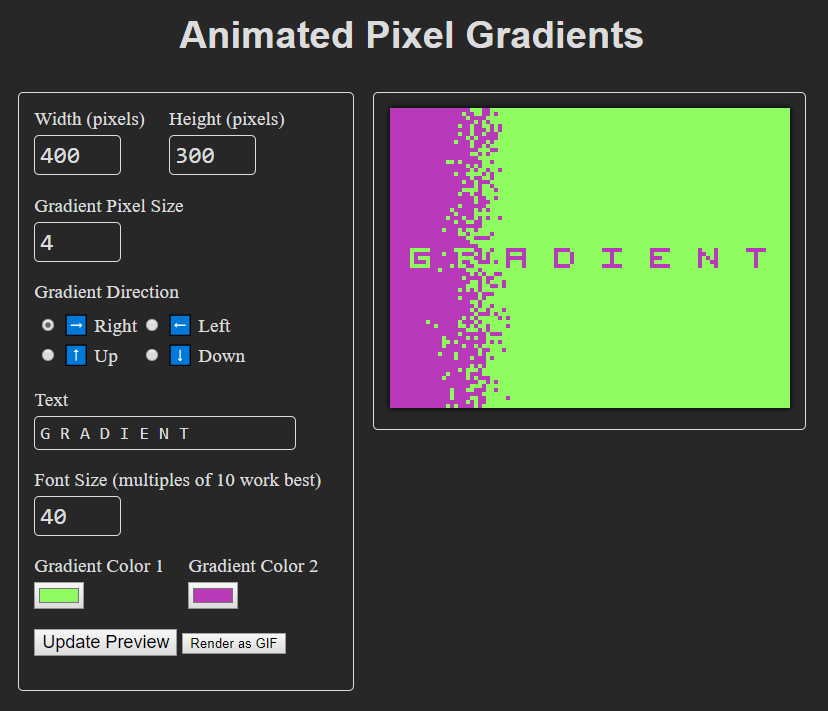
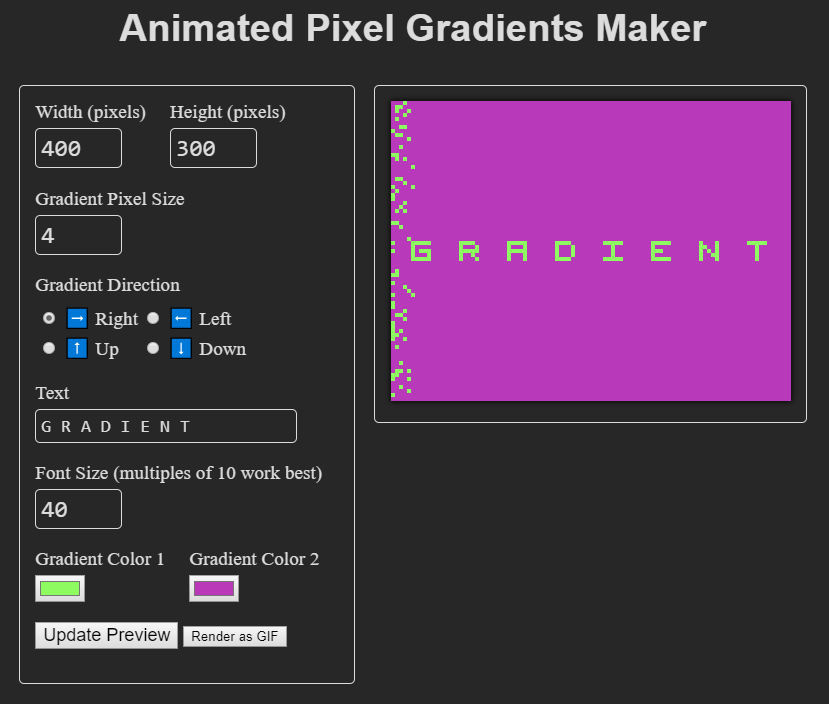
Updated page title

diff --git a/src/client.html b/src/client.html
@@ -1,14 +1,14 @@
 <!DOCTYPE html>
 <html lang="en-US">
   <head>
-    <title>Animated Pixel Gradients</title>
+    <title>Animated Pixel Gradients Maker</title>
     <meta charset="utf-8">
     <meta http-equiv="X-UA-Compatible" content="IE=edge">
     <meta name="viewport" content="width=device-width, initial-scale=1.0">
   </head>
   <body>
     <header>
-      <h1>Animated Pixel Gradients</h1>
+      <h1>Animated Pixel Gradients Maker</h1>
     </header>
     <main>
       <div class="ui-block" id="controls">
